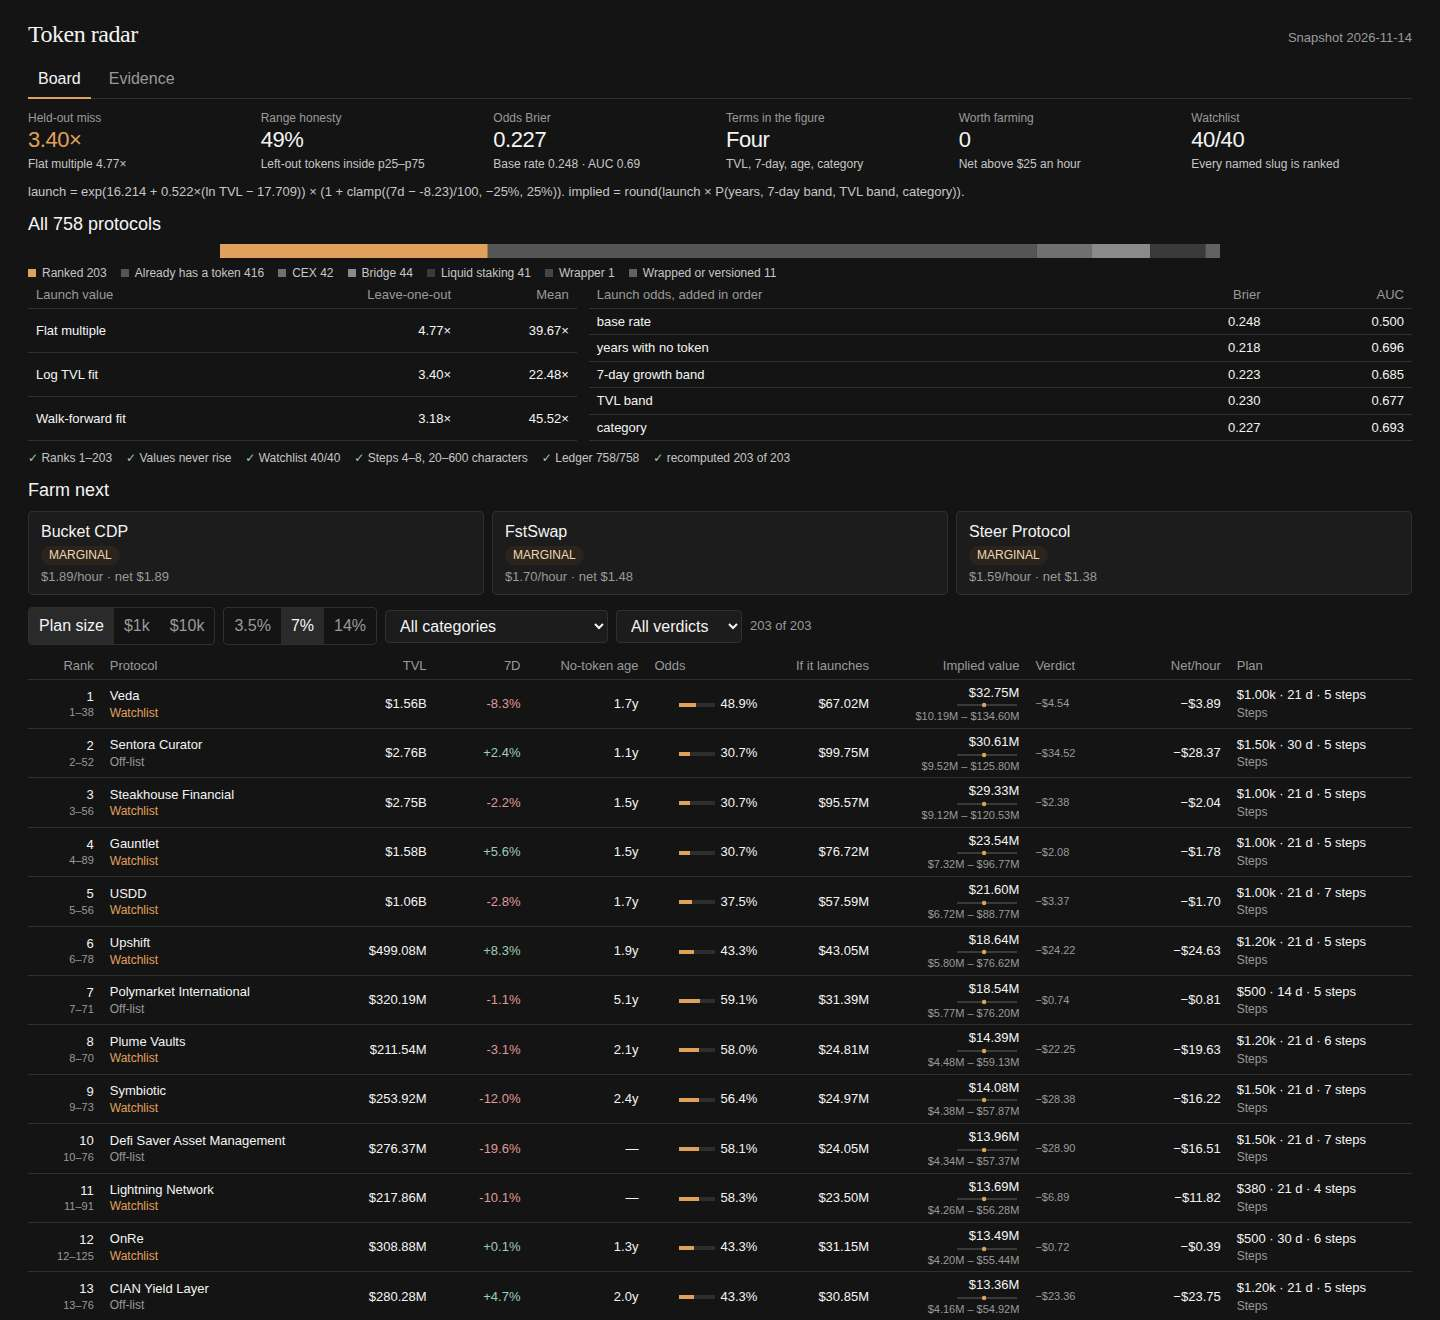
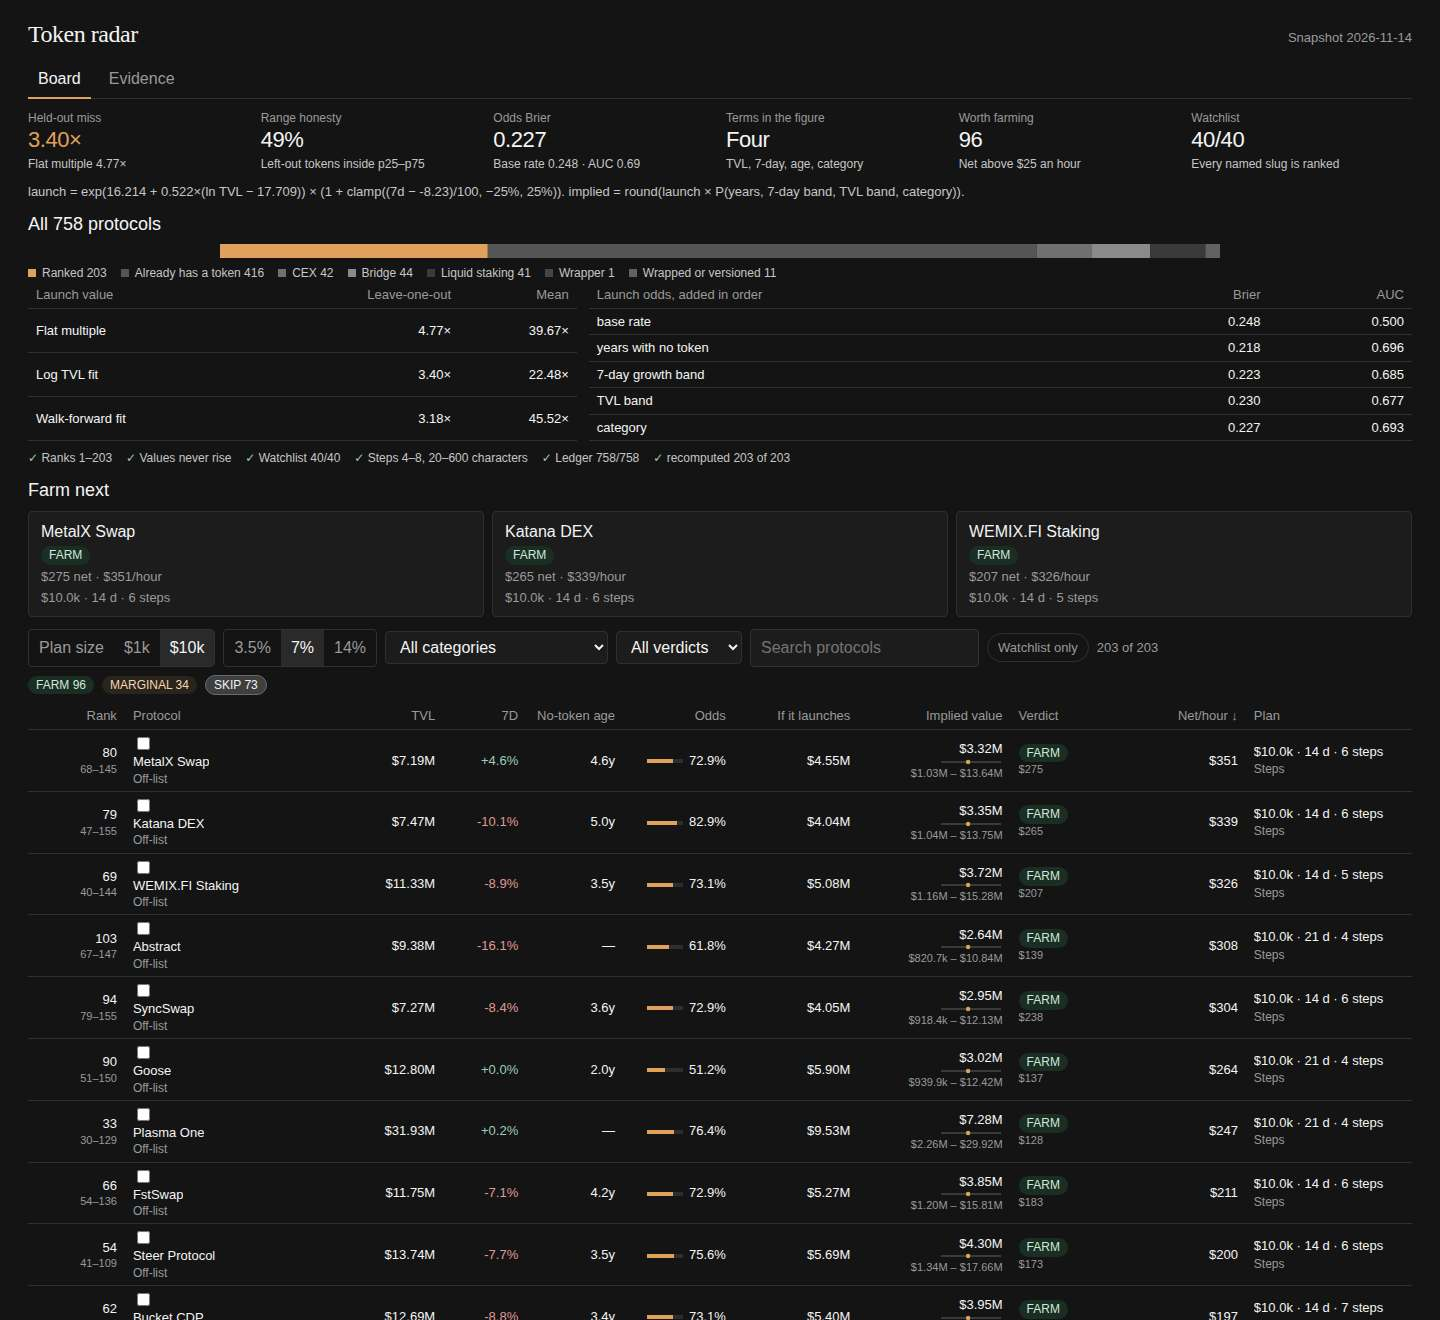
feat: open the board on a $10k farm
Default the deposit to $10k, list the top FARM rows, and keep the SKIP pill on screen.

diff --git a/dashboard/app.js b/dashboard/app.js
@@ -3,7 +3,7 @@
   var app = document.getElementById('app');
   var CELLS = {};
   DATA.evidence.odds_cells.forEach(function (cell) { CELLS[cell.key] = cell; });
-  var state = { q: '', category: '', verdict: '', deposit: 'plan', share: 0.07, open: '' };
+  var state = { q: '', category: '', verdict: '', watch: false, deposit: '10000', share: 0.07, open: '', sort: 'hour', dir: -1, compare: [] };
 
   function money(n) {
     var sign = n < 0 ? '−' : '';
@@ -294,21 +294,39 @@
     return h('ul', { class: 'ticks' }, checks.map(function (c) { return h('li', { class: c[0] ? 'ok' : 'bad', text: c[1] }); }));
   }
 
+  function viewOf(row) {
+    var econ = economics(row, depositOf(row));
+    return { econ: econ, verdict: verdictOf(econ.net, econ.perHour) };
+  }
+
+  function tally() {
+    var counts = { FARM: 0, MARGINAL: 0, SKIP: 0 };
+    DATA.rows.forEach(function (row) { counts[viewOf(row).verdict] += 1; });
+    return counts;
+  }
+
+  function planLine(row) {
+    return money(depositOf(row)) + ' · ' + row.hold_days + ' d · ' + row.farm_steps.length + ' steps';
+  }
+
   function farmNext() {
     var ranked = DATA.rows.map(function (row) {
-      var econ = economics(row, depositOf(row));
-      return { row: row, econ: econ, verdict: verdictOf(econ.net, econ.perHour) };
-    }).sort(function (a, b) { return b.econ.perHour - a.econ.perHour || a.row.rank - b.row.rank; }).slice(0, 3);
-    return h('section', { class: 'next' }, [
-      h('h2', { text: 'Farm next' }),
-      h('div', { class: 'next-row' }, ranked.map(function (item) {
+      var view = viewOf(row);
+      return { row: row, econ: view.econ, verdict: view.verdict };
+    }).filter(function (item) { return item.verdict === 'FARM'; })
+      .sort(function (a, b) { return b.econ.perHour - a.econ.perHour || a.row.rank - b.row.rank; })
+      .slice(0, 3);
+    var body = ranked.length === 0
+      ? h('p', { class: 'muted', text: 'No row clears $25 an hour at this deposit.' })
+      : h('div', { class: 'next-row' }, ranked.map(function (item) {
         return h('button', { type: 'button', onclick: function () { go(item.row.slug); } }, [
           h('span', { class: 'name-btn', text: item.row.name }),
           pill(item.verdict),
-          h('span', { class: 'muted', text: money(item.econ.perHour) + '/hour · net ' + money(item.econ.net) }),
+          h('span', { class: 'muted', text: money(item.econ.net) + ' net · ' + money(item.econ.perHour) + '/hour' }),
+          h('span', { class: 'muted', text: planLine(item.row) }),
         ]);
-      })),
-    ]);
+      }));
+    return h('section', { class: 'next' }, [h('h2', { text: 'Farm next' }), body]);
   }
 
   function rangeBar(row) {
@@ -357,17 +375,43 @@
     ]);
   }
 
+  function sortValue(row, key) {
+    if (key === 'rank') return row.rank;
+    if (key === 'tvl') return row.tvl_usd;
+    if (key === 'd7') return row.change_7d === null ? -1e12 : row.change_7d;
+    if (key === 'age') return row.age_days === null ? -1 : row.age_days;
+    if (key === 'odds') return row.p_token;
+    if (key === 'launch') return row.launch_value_usd;
+    if (key === 'implied') return row.implied_value_usd;
+    if (key === 'net') return viewOf(row).econ.net;
+    return viewOf(row).econ.perHour;
+  }
+
   function filteredRows() {
     var q = state.q.trim().toLowerCase();
-    return DATA.rows.filter(function (row) {
+    var rows = DATA.rows.filter(function (row) {
+      if (state.watch && !row.watchlist) return false;
       if (state.category && row.category !== state.category) return false;
-      if (state.verdict) {
-        var econ = economics(row, depositOf(row));
-        if (verdictOf(econ.net, econ.perHour) !== state.verdict) return false;
-      }
+      if (state.verdict && viewOf(row).verdict !== state.verdict) return false;
       if (!q) return true;
-      return (row.name + ' ' + row.category).toLowerCase().indexOf(q) !== -1;
+      return (row.name + ' ' + row.slug + ' ' + row.category).toLowerCase().indexOf(q) !== -1;
     });
+    var dir = state.dir;
+    var key = state.sort;
+    return rows.slice().sort(function (a, b) {
+      var av = sortValue(a, key);
+      var bv = sortValue(b, key);
+      if (av < bv) return -dir;
+      if (av > bv) return dir;
+      return a.rank - b.rank;
+    });
+  }
+
+  function toggleCompare(slug) {
+    var at = state.compare.indexOf(slug);
+    if (at >= 0) state.compare.splice(at, 1);
+    else if (state.compare.length < 3) state.compare.push(slug);
+    render();
   }
 
   function controls(shown) {
@@ -390,10 +434,52 @@
       h('select', { id: 'verdict', onchange: function (ev) { state.verdict = ev.target.value; render(); } }, ['', 'FARM', 'MARGINAL', 'SKIP'].map(function (v) {
         return h('option', { value: v, text: v || 'All verdicts', selected: v === state.verdict ? 'selected' : null });
       })),
+      h('input', { id: 'q', type: 'search', placeholder: 'Search protocols', value: state.q, oninput: function (ev) { state.q = ev.target.value; render(); } }),
+      h('button', { type: 'button', id: 'watch', class: 'chip', 'aria-pressed': state.watch ? 'true' : 'false', text: 'Watchlist only', onclick: function () { state.watch = !state.watch; render(); } }),
       state.category ? h('button', { type: 'button', class: 'chip', text: state.category + ' ×', onclick: function () { state.category = ''; render(); } }) : null,
       state.verdict ? h('button', { type: 'button', class: 'chip', text: state.verdict + ' ×', onclick: function () { state.verdict = ''; render(); } }) : null,
+      state.watch ? h('button', { type: 'button', class: 'chip', text: 'Watchlist ×', onclick: function () { state.watch = false; render(); } }) : null,
       h('span', { class: 'shown', text: shown + ' of ' + DATA.rows.length }),
     ]);
+  }
+
+  function sortHead(key, label) {
+    var on = state.sort === key;
+    var arrow = on ? (state.dir < 0 ? ' ↓' : ' ↑') : '';
+    return h('th', { class: 'num' }, [
+      h('button', { type: 'button', 'data-sort': key, text: label + arrow, onclick: function () {
+        if (state.sort === key) state.dir = -state.dir;
+        else { state.sort = key; state.dir = key === 'rank' ? 1 : -1; }
+        render();
+      } }),
+    ]);
+  }
+
+  function compareTray() {
+    if (state.compare.length === 0) return null;
+    var cards = state.compare.map(function (slug) {
+      var row = null;
+      for (var i = 0; i < DATA.rows.length; i += 1) if (DATA.rows[i].slug === slug) row = DATA.rows[i];
+      if (!row) return null;
+      var view = viewOf(row);
+      var change = row.change_7d === null ? '—' : (row.change_7d > 0 ? '+' : '') + row.change_7d.toFixed(1) + '%';
+      return h('article', { class: 'cmp' }, [
+        h('h3', { text: row.name }),
+        pill(view.verdict),
+        h('dl', null, [
+          h('dt', { text: 'TVL' }), h('dd', { text: money(row.tvl_usd) }),
+          h('dt', { text: '7D' }), h('dd', { text: change }),
+          h('dt', { text: 'No-token age' }), h('dd', { text: ageText(row.age_days) }),
+          h('dt', { text: 'Odds' }), h('dd', { text: pct(row.p_token) }),
+          h('dt', { text: 'If it launches' }), h('dd', { text: money(row.launch_value_usd) }),
+          h('dt', { text: 'Implied value' }), h('dd', { text: money(row.implied_value_usd) }),
+          h('dt', { text: 'Net' }), h('dd', { text: money(view.econ.net) }),
+          h('dt', { text: 'Net/hour' }), h('dd', { text: money(view.econ.perHour) }),
+          h('dt', { text: 'Plan' }), h('dd', { text: planLine(row) }),
+        ]),
+      ]);
+    });
+    return h('section', { class: 'tray' }, [h('h2', { text: 'Compare' }), h('div', { class: 'tray-row' }, cards)]);
   }
 
   function board() {
@@ -407,6 +493,13 @@
       body.push(h('tr', null, [
         h('td', { class: 'num' }, [h('div', { text: String(row.rank) }), h('div', { class: 'band', text: row.rank_lo + '–' + row.rank_hi })]),
         h('td', null, [
+          h('label', { class: 'pick' }, [
+            h('input', {
+              type: 'checkbox', class: 'cmpick', 'aria-label': 'Compare ' + row.name,
+              checked: state.compare.indexOf(row.slug) >= 0 ? 'checked' : null,
+              onchange: function () { toggleCompare(row.slug); },
+            }),
+          ]),
           h('button', { type: 'button', class: 'name-btn', text: row.name, onclick: function () { go(row.slug); } }),
           h('span', { class: 'tag' + (row.watchlist ? ' watch' : ''), text: row.watchlist ? 'Watchlist' : 'Off-list' }),
         ]),
@@ -423,7 +516,7 @@
         h('td', null, [pill(verdict), h('div', { class: 'band', text: money(econ.net) })]),
         h('td', { class: 'num', text: money(econ.perHour) }),
         h('td', null, [
-          h('div', { text: money(dep) + ' · ' + row.hold_days + ' d · ' + row.farm_steps.length + ' steps' }),
+          h('div', { class: 'plan', text: planLine(row) }),
           h('button', { type: 'button', class: 'expand', text: state.open === row.slug ? 'Hide steps' : 'Steps', onclick: function () { state.open = state.open === row.slug ? '' : row.slug; render(); } }),
         ]),
       ]));
@@ -431,14 +524,30 @@
         body.push(h('tr', { class: 'expanded' }, [h('td', { colspan: '11' }, [stepList(row, dep)])]));
       }
     });
+    var counts = tally();
     return h('div', { id: 'main' }, [
       farmNext(),
       controls(rows.length),
-      rows.length === 0 ? h('p', { class: 'empty', text: 'Nothing matches this filter.' }) : h('table', null, [
-        h('thead', null, [h('tr', null, ['Rank', 'Protocol', 'TVL', '7D', 'No-token age', 'Odds', 'If it launches', 'Implied value', 'Verdict', 'Net/hour', 'Plan'].map(function (label, i) {
-          var numeric = i === 0 || i === 2 || i === 3 || i === 4 || i === 6 || i === 7 || i === 9;
-          return h('th', { class: numeric ? 'num' : '', text: label });
-        }))]),
+      h('p', { class: 'mix' }, [
+        h('span', { class: 'pill farm', text: 'FARM ' + counts.FARM }),
+        h('span', { class: 'pill marginal', text: 'MARGINAL ' + counts.MARGINAL }),
+        h('span', { class: 'pill skip', text: 'SKIP ' + counts.SKIP }),
+      ]),
+      compareTray(),
+      rows.length === 0 ? h('p', { class: 'empty', text: 'No protocols match this search and filter.' }) : h('table', { class: 'board' }, [
+        h('thead', null, [h('tr', null, [
+          sortHead('rank', 'Rank'),
+          h('th', { text: 'Protocol' }),
+          sortHead('tvl', 'TVL'),
+          sortHead('d7', '7D'),
+          sortHead('age', 'No-token age'),
+          sortHead('odds', 'Odds'),
+          sortHead('launch', 'If it launches'),
+          sortHead('implied', 'Implied value'),
+          h('th', { text: 'Verdict' }),
+          sortHead('hour', 'Net/hour'),
+          h('th', { text: 'Plan' }),
+        ])]),
         h('tbody', null, body),
       ]),
     ]);

diff --git a/dashboard/app.css b/dashboard/app.css
@@ -23,8 +23,8 @@ body { margin: 0; background: var(--bg); color: var(--text); font-family: var(--
 button, input, select { font: inherit; color: inherit; }
 button { background: none; border: 0; padding: 0; cursor: pointer; }
 :focus-visible { outline: 2px solid var(--accent); outline-offset: 2px; }
-.skip { position: absolute; left: 16px; top: -40px; background: var(--surface); padding: 8px 12px; }
-.skip:focus { top: 8px; }
+.skip-link { position: absolute; left: 16px; top: -40px; background: var(--surface); padding: 8px 12px; }
+.skip-link:focus { top: 8px; }
 .wrap { padding: 20px 28px 28px; }
 h1 { margin: 0; font-family: var(--serif); font-size: 24px; font-weight: 500; letter-spacing: -0.02em; line-height: 1.2; }
 h2 { margin: 0 0 8px; font-size: 18px; font-weight: 500; line-height: 1.3; }
@@ -57,6 +57,7 @@ input, select { background: var(--surface); border: 1px solid var(--line); borde
 .seg button { padding: 6px 10px; color: var(--muted); }
 .seg button[aria-pressed="true"] { color: var(--text); background: #2a2a2a; }
 .chip { padding: 4px 10px; border: 1px solid var(--accent); border-radius: 999px; color: var(--text); font-size: 13px; }
+.chip[aria-pressed="false"] { border-color: var(--line); color: var(--muted); }
 .shown { color: var(--muted); font-size: 13px; font-variant-numeric: tabular-nums; }
 .name-btn { font-weight: 500; }
 .name-btn:hover { color: var(--accent); }
@@ -73,7 +74,30 @@ input, select { background: var(--surface); border: 1px solid var(--line); borde
 .pill { display: inline-block; padding: 1px 8px; border-radius: 999px; font-size: 12px; font-weight: 500; line-height: 1.4; white-space: nowrap; }
 .pill.farm { background: var(--farm-bg); color: var(--farm-fg); }
 .pill.marginal { background: var(--med-bg); color: var(--med-fg); }
-.pill.skip { background: var(--skip-bg); color: var(--skip-fg); }
+.pill.skip { background: #3f3f3f; color: #f3f3f3; border: 1px solid #6a6a6a; }
+.board { table-layout: fixed; }
+.board td { vertical-align: middle; }
+.board th:nth-child(1), .board td:nth-child(1) { width: 7%; }
+.board th:nth-child(2), .board td:nth-child(2) { width: 15%; }
+.board th:nth-child(3), .board td:nth-child(3) { width: 8%; }
+.board th:nth-child(4), .board td:nth-child(4) { width: 6%; }
+.board th:nth-child(5), .board td:nth-child(5) { width: 7%; }
+.board th:nth-child(6), .board td:nth-child(6) { width: 8%; }
+.board th:nth-child(7), .board td:nth-child(7) { width: 9%; }
+.board th:nth-child(8), .board td:nth-child(8) { width: 11%; }
+.board th:nth-child(9), .board td:nth-child(9) { width: 9%; }
+.board th:nth-child(10), .board td:nth-child(10) { width: 8%; }
+.board th button { color: inherit; font-weight: 500; font-variant-numeric: tabular-nums; }
+.board th.num button { width: 100%; text-align: right; }
+.name-btn { display: block; max-width: 100%; overflow: hidden; text-overflow: ellipsis; white-space: nowrap; text-align: left; }
+.plan { white-space: nowrap; overflow: hidden; text-overflow: ellipsis; }
+.mix { display: flex; gap: 8px; align-items: center; margin: 0 0 8px; font-size: 13px; font-variant-numeric: tabular-nums; }
+.pick { display: inline-flex; margin-right: 6px; vertical-align: middle; }
+.tray { margin: 8px 0 12px; }
+.tray-row { display: grid; grid-template-columns: 1fr 1fr 1fr; gap: 8px; }
+.cmp { background: var(--surface); border: 1px solid var(--line); border-radius: 4px; padding: 10px 12px; }
+.cmp h3 { margin: 0 0 6px; font-size: 16px; font-weight: 500; }
+.cmp dl { font-size: 13px; }
 .expand { color: var(--muted); font-size: 12px; }
 .expanded td { background: #191919; }
 .step { display: grid; grid-template-columns: 1fr auto; gap: 8px 16px; align-items: start; padding: 6px 0; border-top: 1px solid var(--line); }

diff --git a/dashboard/index.html b/dashboard/index.html
@@ -7,7 +7,7 @@
 <link rel="stylesheet" href="app.css">
 </head>
 <body>
-<a class="skip" href="#main">Skip to content</a>
+<a class="skip-link" href="#main">Skip to content</a>
 <div id="app"></div>
 <script src="../data.js"></script>
 <script src="app.js"></script>

diff --git a/README.md b/README.md
@@ -4,7 +4,7 @@
 [![rank](https://make.fun/badge/token-radar-01/maskarajr/airdrop-radar/rank.svg)](https://make.fun/bounty/token-radar-01/leaderboard?utm_source=github&utm_medium=readme&utm_campaign=token-radar-01)
 [![reward](https://make.fun/badge/token-radar-01/maskarajr/airdrop-radar/reward.svg)](https://make.fun/bounty/token-radar-01?utm_source=github&utm_medium=readme&utm_campaign=token-radar-01)
 
-Token Radar ranks protocols that record no token by implied value: the market cap a held-out log-log TVL fit gives if a token launches, times one more week of 7-day change net of the snapshot median, times launch odds. Odds are a smoothed rate by years with no token, 7-day growth band, TVL band and category, scored on a held-out half. A farm row's modelled drop is that implied value times a drop share times the deposit's slice of TVL. Net subtracts gas, fees and a 4% T-bill over the hold. FARM means net above zero and at least $25 an hour of the plan's stated work.
+Token Radar ranks protocols that record no token by implied value: the market cap a held-out log-log TVL fit gives if a token launches, times one more week of 7-day change net of the snapshot median, times launch odds. Odds are a smoothed rate by years with no token, 7-day growth band, TVL band and category, scored on a held-out half. A farm row's modelled drop is that implied value times a drop share times the deposit's slice of TVL. Net subtracts gas, fees and a 4% T-bill over the hold. FARM means net above zero and at least $25 an hour of the plan's stated work. The board opens on a $10,000 deposit, and Farm next lists the three FARM rows with the highest net per hour at that size.
 
 ## Run it
 
